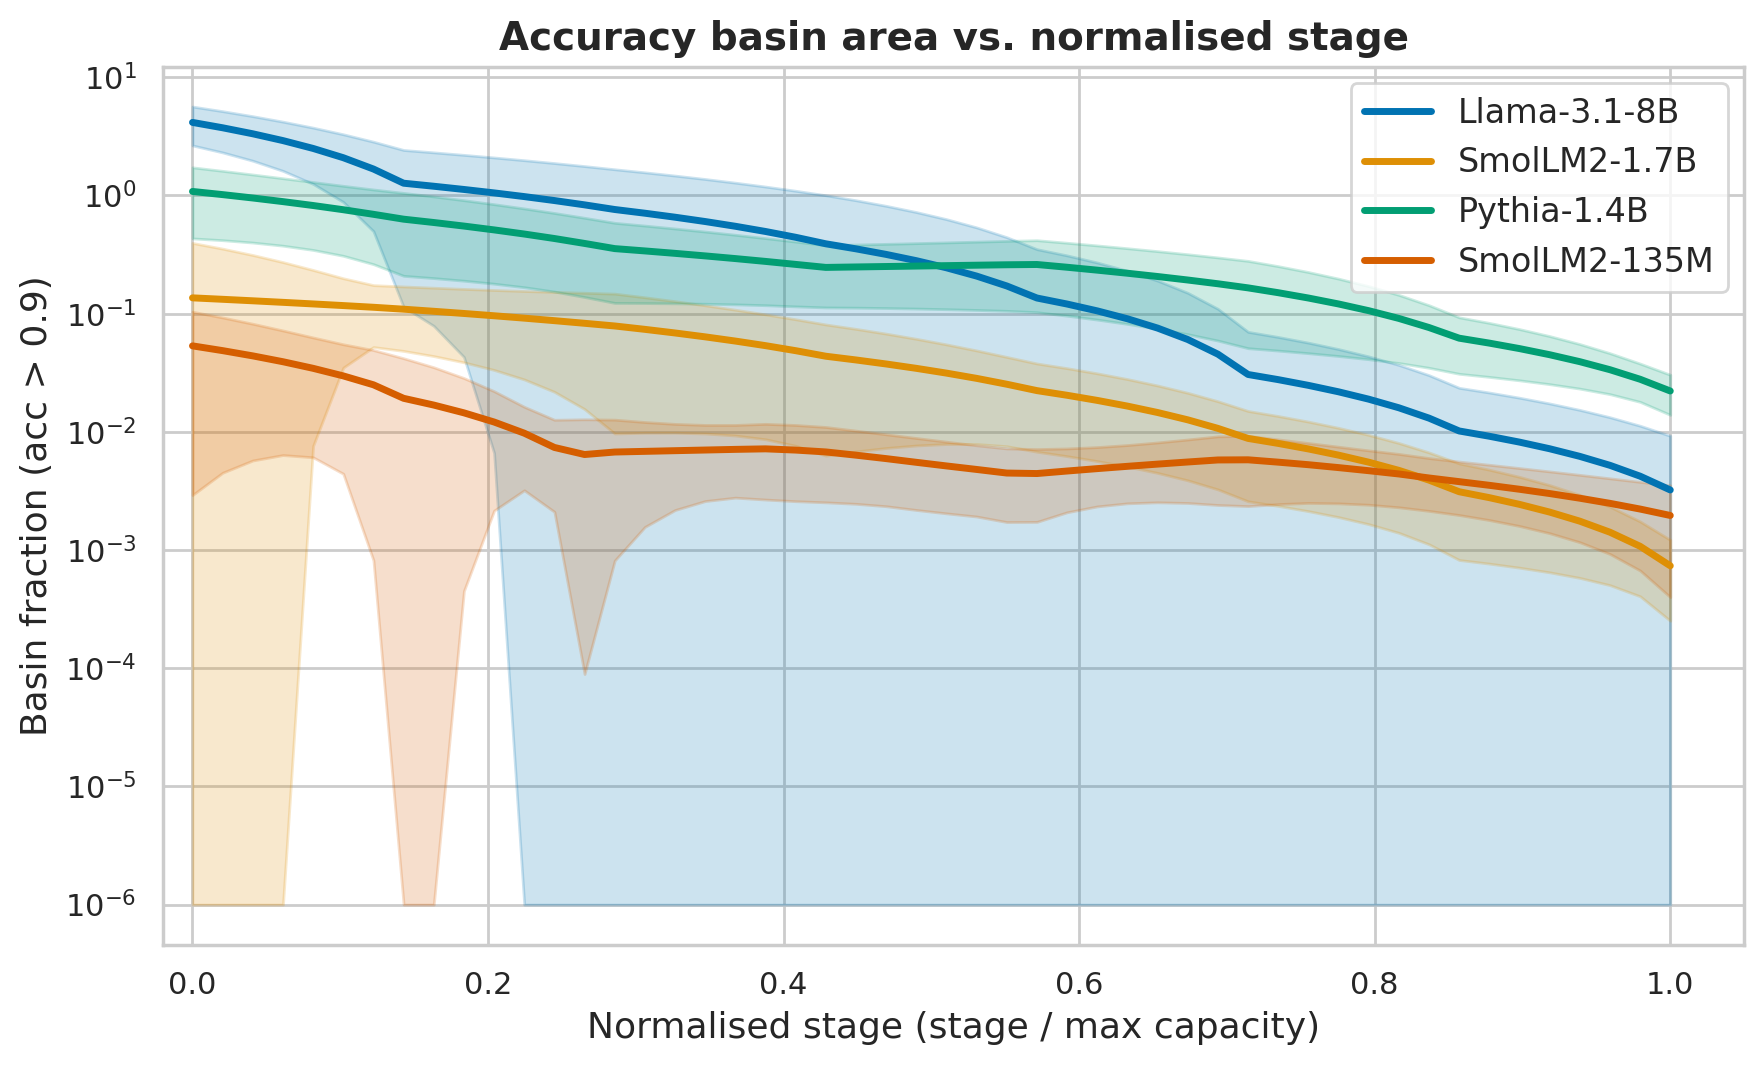
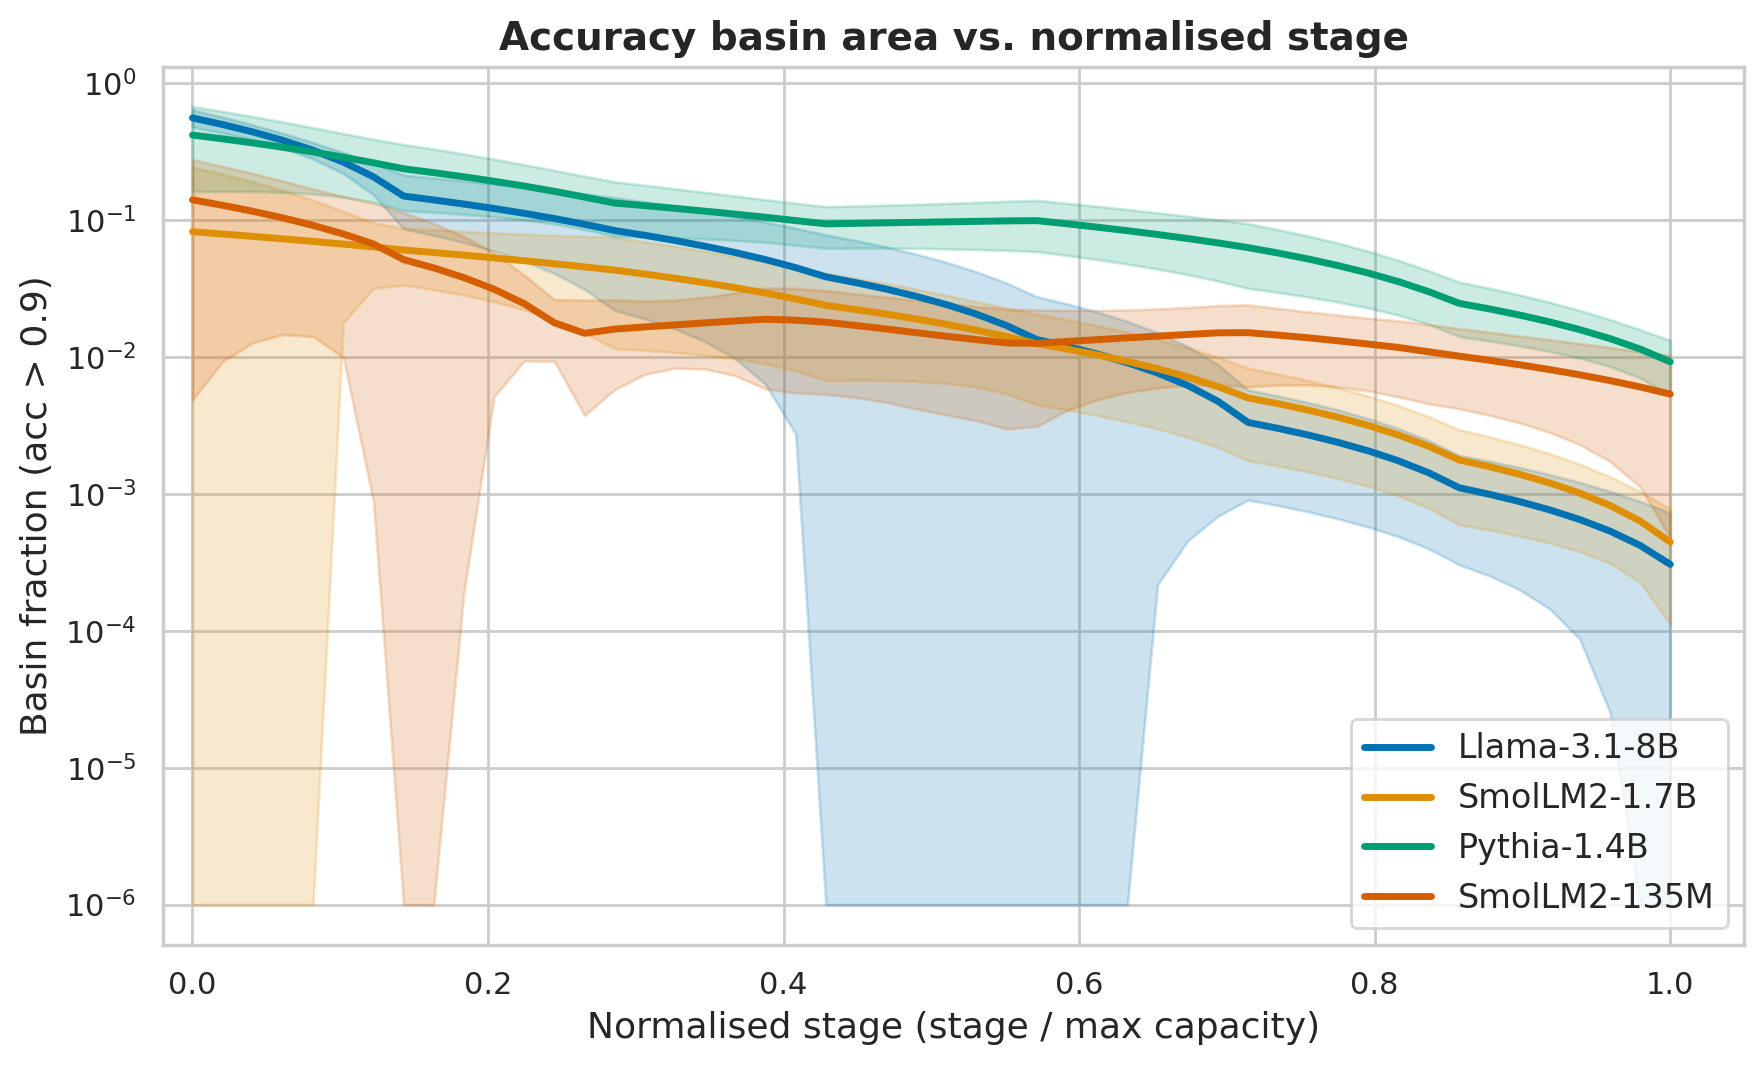
results: recomputed basin area figure from MLS cluster jobs (fraction fix)
All 4 models (Llama-3.1-8B, SmolLM2-1.7B, Pythia-1.4B, SmolLM2-135M)
recomputed on cluster with corrected basin fraction metric. Linter
changes to plot script (model_name param, faster sid_col filtering).

diff --git a/scripts/paper/plot_basin_area_vs_stage.py b/scripts/paper/plot_basin_area_vs_stage.py
@@ -59,10 +59,10 @@ def _flatten_embedding(row: Dict[str, Any]) -> np.ndarray:
 
 
 def _filter_rows(ds, sample_id: int) -> List[Dict[str, Any]]:
-    # Fast filter: read only sample_id column to find matching indices,
-    # then select only the needed rows (avoids loading all embeddings).
-    sids = ds.select_columns(["sample_id"])
-    indices = [i for i in range(len(sids)) if int(sids[i]["sample_id"]) == int(sample_id)]
+    # Fast filter: read the whole sample_id column in one shot to find matching
+    # indices, then select only the needed rows (avoids loading all embeddings).
+    sid_col = ds.select_columns(["sample_id"])["sample_id"]
+    indices = [i for i, s in enumerate(sid_col) if int(s) == int(sample_id)]
     if not indices:
         return []
     subset = ds.select(indices)
@@ -244,7 +244,7 @@ def _compute_basin_areas_for_sample(
 # ---------------------------------------------------------------------------
 
 
-def _plot_normalised(all_results: List[Dict[str, Any]], threshold: float, output: str, dpi: int):
+def _plot_normalised(all_results: List[Dict[str, Any]], threshold: float, output: str, dpi: int, model_name: str = ""):
     sns.set_theme(style="whitegrid")
     fig, ax = plt.subplots(figsize=(9, 5.5))
 
@@ -262,8 +262,11 @@ def _plot_normalised(all_results: List[Dict[str, Any]], threshold: float, output
 
     ax.set_yscale("log")
     ax.set_xlabel("Normalised stage (stage / max capacity)", fontsize=13)
-    ax.set_ylabel(f"Basin fraction (cells with acc > {threshold}) / total cells", fontsize=13)
-    ax.set_title("Accuracy basin size vs. normalised stage — Llama-3.1-8B", fontsize=14, fontweight="bold")
+    ax.set_ylabel(f"Basin fraction (acc > {threshold})", fontsize=13)
+    title = "Accuracy basin size vs. normalised stage"
+    if model_name:
+        title += f" — {model_name}"
+    ax.set_title(title, fontsize=14, fontweight="bold")
     ax.legend(fontsize=9, ncol=2)
     ax.set_xlim(-0.02, 1.05)
     ax.tick_params(labelsize=11)
@@ -365,6 +368,7 @@ def main():
     parser.add_argument("--recompute", action="store_true")
     parser.add_argument("--output", type=str, default=None)
     parser.add_argument("--dpi", type=int, default=200)
+    parser.add_argument("--model_name", type=str, default="", help="Title suffix for single-model per-sample plot")
     # Multi-model plot mode (reads cached NPZs, no GPU needed)
     parser.add_argument("--plot_multi", action="store_true", help="Plot mean+STD for multiple models")
     parser.add_argument("--multi_exp_dirs", type=str, nargs="+", default=None)
@@ -411,7 +415,7 @@ def main():
         )
         all_results.append(res)
 
-    _plot_normalised(all_results, threshold=args.threshold, output=output, dpi=args.dpi)
+    _plot_normalised(all_results, threshold=args.threshold, output=output, dpi=args.dpi, model_name=args.model_name)
 
 
 if __name__ == "__main__":